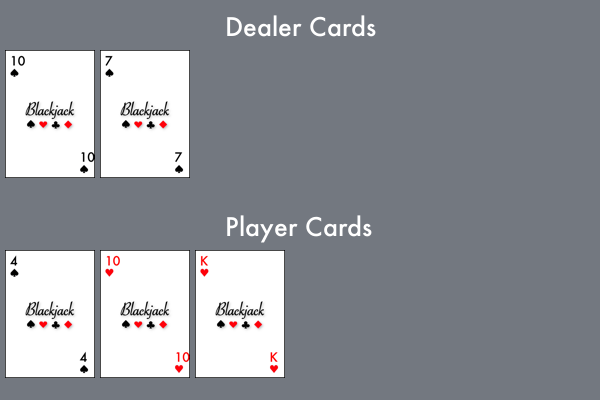
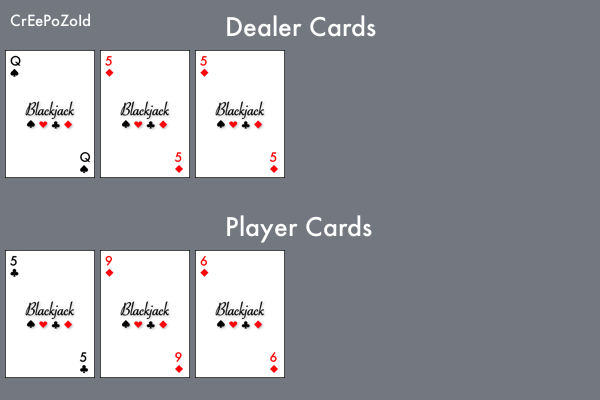
bug fixes and cleaning up image generation

diff --git a/bot.py b/bot.py
@@ -46,6 +46,7 @@ async def on_message(message):
 async def blackjack(ctx, *args):
     bet = None
     userId = ctx.author.id
+    userName = ctx.author.name
     userData = db.findById(userId)
     gameActive = False
     
@@ -127,7 +128,7 @@ async def blackjack(ctx, *args):
                 else:
                     playerHand.append(bljack.getCard(deck))
                     db.ins(userId, playerHand, dealerHand, gameActive, deck, bet)
-                await sendImage(ctx, genImage.make_table(playerHand, dealerHand, True))
+                await sendImage(ctx, genImage.make_table(playerHand, dealerHand, userName, True))
 
             elif action == "stand":
                 if not gameActive:
@@ -160,7 +161,7 @@ async def blackjack(ctx, *args):
 
             if playerSum == 21:
                 if dealerSum != 21:
-                    await sendImage(ctx, genImage.make_table(playerHand, dealerHand))
+                    await sendImage(ctx, genImage.make_table(playerHand, dealerHand, userName))
                     await ctx.send(f"<@{userId}> **wins!**")
                     gameActive = False
                     playerHand = []
@@ -168,7 +169,7 @@ async def blackjack(ctx, *args):
                     bet = None
                     db.ins(userId, playerHand, dealerHand, gameActive, deck, bet)
                 else:
-                    await sendImage(ctx, genImage.make_table(playerHand, dealerHand))
+                    await sendImage(ctx, genImage.make_table(playerHand, dealerHand, userName))
                     await ctx.send(f"<@{userId}> and the dealer **tie!**")
                     gameActive = False
                     playerHand = []
@@ -176,7 +177,7 @@ async def blackjack(ctx, *args):
                     bet = None
                     db.ins(userId, playerHand, dealerHand, gameActive, deck, bet)
             elif dealerSum == 21 or playerSum > 21:
-                await sendImage(ctx, genImage.make_table(playerHand, dealerHand))
+                await sendImage(ctx, genImage.make_table(playerHand, dealerHand, userName))
                 await ctx.send(f"<@{userId}> **loses** to the dealer")
                 gameActive = False
                 playerHand = []
@@ -185,7 +186,7 @@ async def blackjack(ctx, *args):
                 db.ins(userId, playerHand, dealerHand, gameActive, deck, bet)
             else:
                 if not gameActive:
-                    await sendImage(ctx, genImage.make_table(playerHand, dealerHand))
+                    await sendImage(ctx, genImage.make_table(playerHand, dealerHand, userName))
                     while dealerSum < 17: # stands soft 17
                         if len(deck) <= 0: #if deck empty refill
                             bljack.fillDeck(deck)
@@ -194,7 +195,7 @@ async def blackjack(ctx, *args):
                         dealerHand.append(bljack.getCard(deck))
                         dealerSum = bljack.getHandSum(dealerHand)
                         db.ins(userId, playerHand, dealerHand, gameActive, deck, bet)
-                    await sendImage(ctx, genImage.make_table(playerHand, dealerHand))
+                    await sendImage(ctx, genImage.make_table(playerHand, dealerHand, userName))
                     if playerSum > dealerSum: # player wins
                         await ctx.send(f"<@{userId}> **wins!**")
                         gameActive = False

diff --git a/db.py b/db.py
@@ -31,15 +31,15 @@ def ins(userId, userCards, dealerCards, handActive, deck, betAmount):
     # if it does not exist create new object
     if dup == None:
         result = bjDB.insert_one(dict)
-        print(f'Added to database with id {result.inserted_id}')
+        # print(f'Added to database with id {result.inserted_id}')
     # if it does exist replace data with updated data
     else:
         try:
             dataId = bjDB.find({"userId": userId}, {"_id": 1}).next()["_id"]
             bjDB.replace_one({'_id': dataId}, dict)
-            print(f"Replaced duplicate at id {dataId}")
+            # print(f"Replaced duplicate at id {dataId}")
         except Exception as e:
-            print("No duplicates present", e)
+            print("Error: ", e)
 
 def findById(userId):
     dict = {

diff --git a/genImage.py b/genImage.py
@@ -24,10 +24,13 @@ def make_image(number='A', suite="spades", turnOne=False):
     # img.save('img.png')
     return img
 
-def make_table(userHand, dealerHand, turnOne=False):
+def make_table(userHand, dealerHand, userName, turnOne=False):
     img = Image.new("RGB", (600,400), (115, 120, 128))
     d = ImageDraw.Draw(img)
     fnt = ImageFont.truetype(cwd + "/resources/Futura-Medium.ttf", 25)
+    fnt2 = ImageFont.truetype(cwd + "/resources/Futura-Medium.ttf", 15)
+
+    d.text((10, 10), userName, fill=(255, 255, 255), font=fnt2)
 
     d.text((225, 10), "Dealer Cards", fill=(255, 255, 255), font=fnt)
     if turnOne:

diff --git a/blackjack.py b/blackjack.py
@@ -9,7 +9,8 @@ def fillDeck(deck):
     for x in range(numDecks):
         for i in range(len(CARDS)):
             for j in range(len(SUITES)):
-                deck.append([CARDS[i], SUITES[j]])
+                if [CARDS[i], SUITES[j]] not in deck:
+                    deck.append([CARDS[i], SUITES[j]])
 
 def shuffleDeck(deck):
     random.shuffle(deck)
